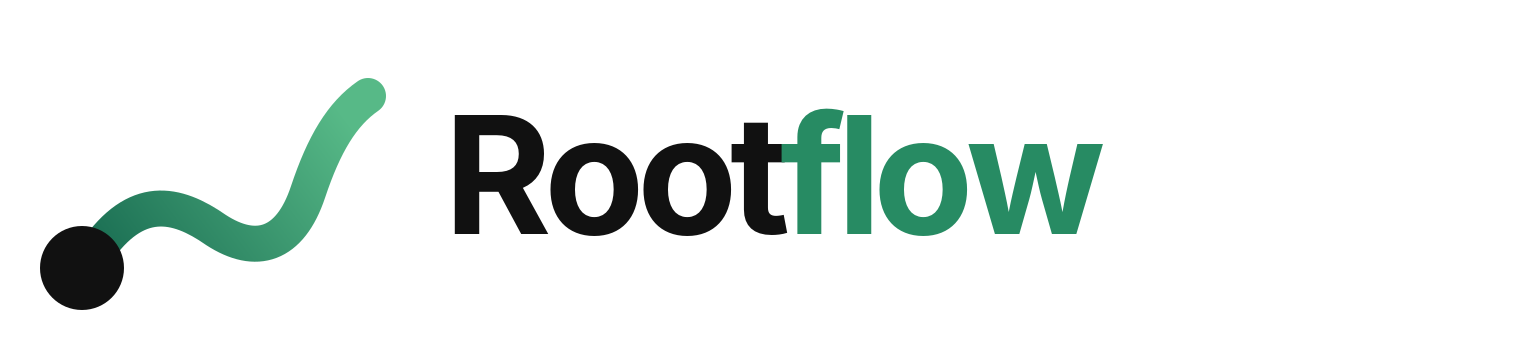
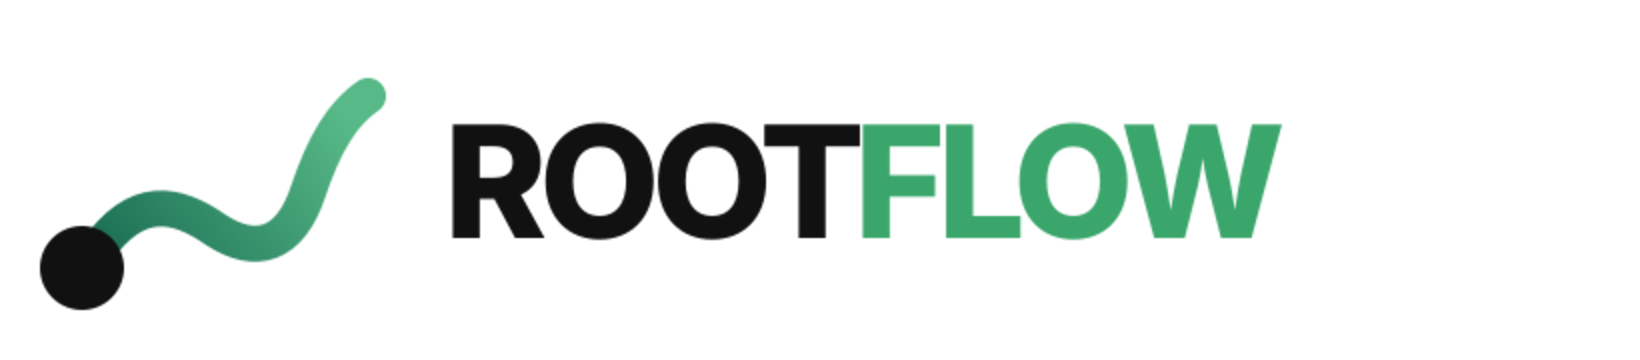
big update, branding and more!

Changed region(s): [[0.0309, 0.2139, 0.8039, 0.8861], [0.0, 0.6722, 0.0309, 0.7333], [0.0, 0.7639, 0.0309, 0.7944]]

diff --git a/app.js b/app.js
@@ -180,26 +180,25 @@
   function RootflowGlyph(props) {
     var size = props && props.size || 52;
     return h('svg', {
-      className: 'rootflow-glyph', width: size, height: size, viewBox: '0 0 1024 1024',
-      role: 'img', 'aria-label': 'Rootflow'
+      className: 'rootflow-glyph', width: size, height: size, viewBox: '24 38 222 168',
+      role: 'img', 'aria-label': 'Rootflow mark', preserveAspectRatio: 'xMidYMid meet'
     },
-      h('defs', null, h('linearGradient', { id: 'rootflow-glyph-flow', x1: '270', y1: '690', x2: '790', y2: '280', gradientUnits: 'userSpaceOnUse' },
-        h('stop', { offset: '0', stopColor: '#17664d' }),
-        h('stop', { offset: '.55', stopColor: '#3f9d72' }),
-        h('stop', { offset: '1', stopColor: '#57b982' }))),
+      h('defs', null, h('linearGradient', { id: 'rootflow-glyph-flow', x1: '54', y1: '174', x2: '218', y2: '55', gradientUnits: 'userSpaceOnUse' },
+        h('stop', { offset: '0', stopColor: '#176A50' }),
+        h('stop', { offset: '1', stopColor: '#57B987' }))),
       h('path', {
-        d: 'M 290 640 C 360 540, 432 592, 492 624 C 555 658, 619 646, 663 584 C 715 511, 709 390, 804 318',
-        fill: 'none', stroke: 'url(#rootflow-glyph-flow)', strokeWidth: 82, strokeLinecap: 'round', strokeLinejoin: 'round'
+        d: 'M58 170C84 132 110 137 137 155C163 172 185 166 197 130C208 98 219 77 236 64',
+        fill: 'none', stroke: 'url(#rootflow-glyph-flow)', strokeWidth: 24, strokeLinecap: 'round', strokeLinejoin: 'round'
       }),
-      h('circle', { cx: 245, cy: 690, r: 86, fill: '#111211' }));
+      h('circle', { cx: 49, cy: 181, r: 28, fill: '#111111' }));
   }
 
   function BrandMark(props) {
-    return h('div', { className: cx('brand-lockup', props && props.compact && 'compact') },
-      h('div', { className: 'rootflow-mark-wrap' }, h(RootflowGlyph, { size: props && props.compact ? 40 : 54 })),
+    return h('div', { className: cx('brand-lockup', props && props.compact && 'compact'), 'aria-label': 'ROOTFLOW' },
+      h('div', { className: 'rootflow-mark-wrap' }, h(RootflowGlyph, { size: props && props.compact ? 40 : 56 })),
       props && props.compact ? null : h('div', { className: 'brand-copy' },
-        h('b', null, h('span', null, 'Root'), h('em', null, 'flow')),
-        h('span', null, 'Nhìn trước dòng tiền')));
+        h('b', null, h('span', null, 'ROOT'), h('em', null, 'FLOW')),
+        h('span', { className: 'brand-tagline' }, 'Nhìn trước dòng tiền')));
   }
 
   function DonutChart(props) {

diff --git a/index.html b/index.html
@@ -774,6 +774,38 @@ body.sheet-open .app-scroll{overflow:hidden}
   .burn-summary>div:last-child{grid-column:1/-1}
 }
 
+
+
+/* ================= V2.6.1 · brand lockup alignment ================= */
+/* ROOTFLOW is a single lockup: mark + ROOT (graphite) + FLOW (Root Green). */
+.brand-lockup{display:flex;align-items:center;gap:11px;min-width:0}
+.rootflow-mark-wrap{width:54px;height:48px;display:grid;place-items:center;flex:none}
+.rootflow-mark-wrap .rootflow-glyph{width:54px;height:44px}
+.brand-copy{display:grid;gap:2px;border-left:0;padding-left:0;min-width:0}
+.brand-copy b{display:flex;align-items:baseline;font-size:25px;line-height:1;letter-spacing:-1.05px;font-weight:800;white-space:nowrap}
+.brand-copy b>span{font:inherit;color:#111111}
+.brand-copy b>em{font:inherit;font-style:normal;color:#3AA66B}
+.brand-copy .brand-tagline{font-size:10px;line-height:1.1;color:var(--muted);letter-spacing:.05px}
+.dashboard-head{align-items:center}
+
+@media(max-width:620px){
+  /* Keep the wordmark visible on phone; only the small tagline disappears. */
+  .brand-lockup{gap:9px}
+  .rootflow-mark-wrap{width:47px;height:42px}
+  .rootflow-mark-wrap .rootflow-glyph{width:47px;height:39px}
+  .brand-copy{display:grid}
+  .brand-copy b{font-size:23px;letter-spacing:-.9px}
+  .brand-copy .brand-tagline{display:none}
+  .dashboard-head{min-height:54px;align-items:center}
+}
+
+@media(max-width:360px){
+  .brand-lockup{gap:7px}
+  .rootflow-mark-wrap{width:42px;height:38px}
+  .rootflow-mark-wrap .rootflow-glyph{width:42px;height:35px}
+  .brand-copy b{font-size:21px;letter-spacing:-.75px}
+}
+
 </style>
 </head>
 <body>

diff --git a/sw.js b/sw.js
@@ -1,6 +1,6 @@
 /* Rootflow — sw.js
    Cache version phải đổi ở mọi deploy để PWA Home Screen nhận code mới. */
-var CACHE = 'rootflow-v2.6-2026-08-07';
+var CACHE = 'rootflow-v2.6.1-2026-08-07';
 
 var ASSETS = [
   './',

diff --git a/CHANGELOG.md b/CHANGELOG.md
@@ -56,3 +56,11 @@
 - Dashboard consumer-finance mới.
 - Charts, block budget, Scenario Lab, bottom nav.
 - Static React PWA deploy trực tiếp GitHub Pages.
+
+## V2.6.1 — Brand lockup alignment
+- Dashboard header now shows the complete ROOTFLOW lockup on mobile.
+- ROOT is graphite/black; FLOW is Root Green.
+- Rootflow mark viewBox is cropped so the mark no longer looks tiny or isolated.
+- Removed the vertical divider in the lockup and aligned mark + wordmark as one unit.
+- Mobile hides only the tagline, not the ROOTFLOW name.
+- Service-worker cache bumped to v2.6.1.
